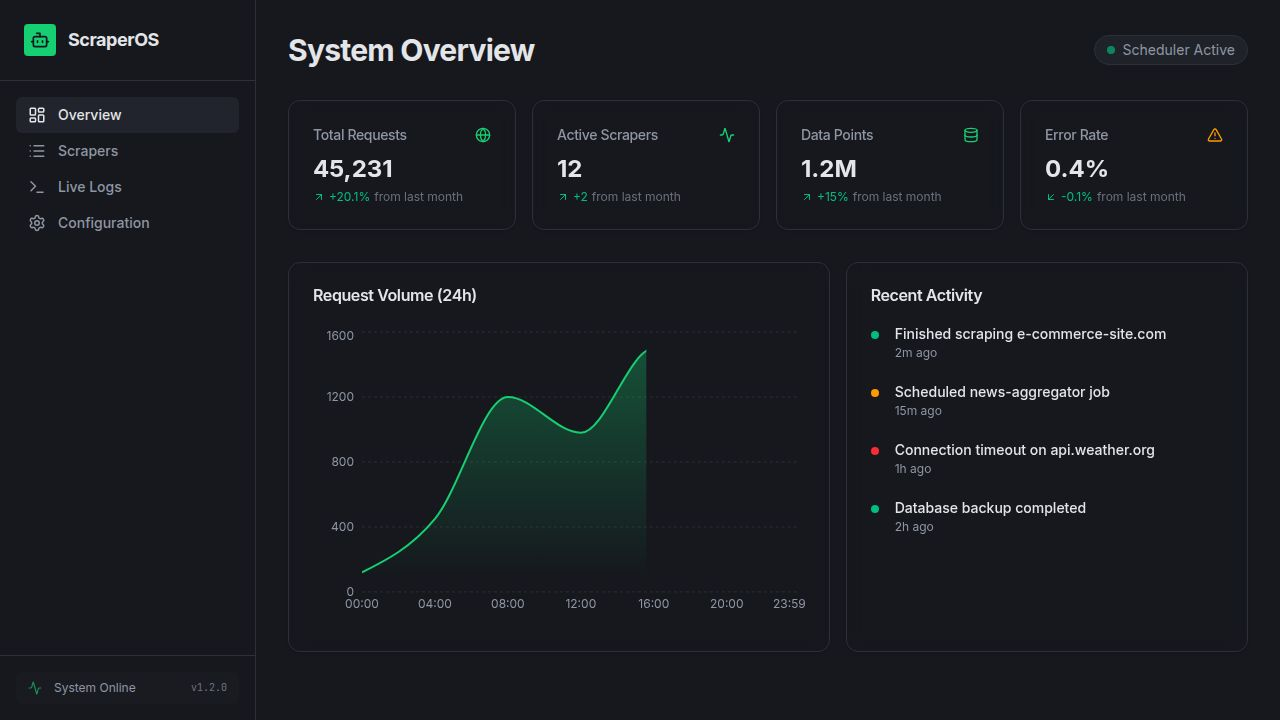
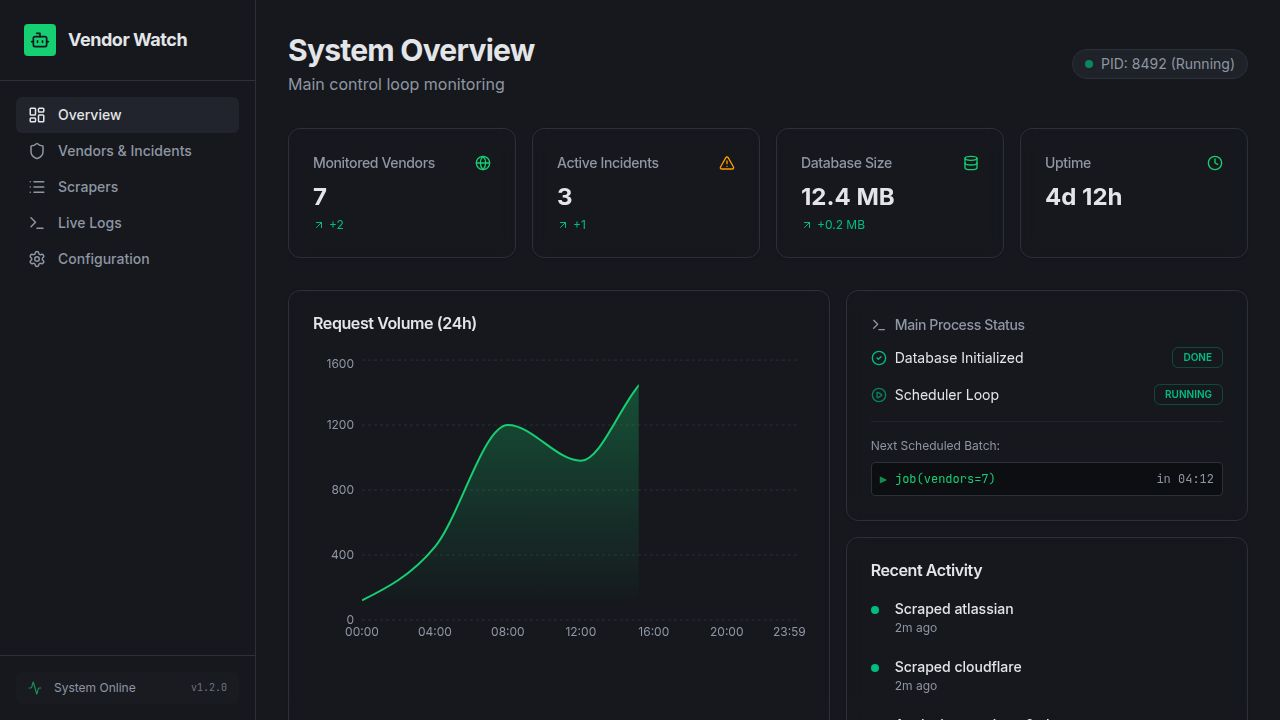
Update application name to Vendor Watch across all relevant files
Modify client/index.html, client/src/components/layout.tsx, and replit.md to rename the application from "ScraperOS" to "Vendor Watch", updating meta tags, sidebar display, and project documentation.

Replit-Commit-Author: Agent
Replit-Commit-Session-Id: 1bb68d70-c15f-4f9e-b7de-5420db1c5676
Replit-Commit-Checkpoint-Type: full_checkpoint
Replit-Commit-Event-Id: 40303295-f26b-4de8-b93f-3319f3ed82fe
Replit-Commit-Screenshot-Url: https://storage.googleapis.com/screenshot-production-us-central1/3daf340c-ca96-401c-a417-72b49712e625/1bb68d70-c15f-4f9e-b7de-5420db1c5676/zNHSsFZ
Replit-Helium-Checkpoint-Created: true

diff --git a/client/index.html b/client/index.html
@@ -4,14 +4,14 @@
     <meta charset="UTF-8" />
     <meta name="viewport" content="width=device-width, initial-scale=1.0, maximum-scale=1" />
 
-    <meta property="og:title" content="ScraperOS - Task Scheduler" />
-    <meta property="og:description" content="Dashboard for Python-based web scraping and scheduling tasks." />
+    <meta property="og:title" content="Vendor Watch - Status Monitoring" />
+    <meta property="og:description" content="Monitor third-party vendor status pages and track service incidents in real-time." />
     <meta property="og:type" content="website" />
     <meta property="og:image" content="https://replit.com/public/images/opengraph.png" />
     <meta name="twitter:card" content="summary_large_image" />
     <meta name="twitter:site" content="@replit" />
-    <meta name="twitter:title" content="ScraperOS - Task Scheduler" />
-    <meta name="twitter:description" content="Dashboard for Python-based web scraping and scheduling tasks." />
+    <meta name="twitter:title" content="Vendor Watch - Status Monitoring" />
+    <meta name="twitter:description" content="Monitor third-party vendor status pages and track service incidents in real-time." />
     <meta name="twitter:image" content="https://replit.com/public/images/opengraph.png" />
 
     <link rel="icon" type="image/png" href="/favicon.png" />

diff --git a/client/src/components/layout.tsx b/client/src/components/layout.tsx
@@ -29,7 +29,7 @@ export default function Layout({ children }: { children: React.ReactNode }) {
           <div className="h-8 w-8 rounded bg-primary flex items-center justify-center text-primary-foreground">
             <Bot size={20} />
           </div>
-          <span className="font-bold text-lg tracking-tight">ScraperOS</span>
+          <span className="font-bold text-lg tracking-tight">Vendor Watch</span>
         </div>
 
         <nav className="flex-1 p-4 space-y-1">

diff --git a/replit.md b/replit.md
@@ -1,8 +1,8 @@
-# ScraperOS - Vendor Status Monitoring Dashboard
+# Vendor Watch - Vendor Status Monitoring Dashboard
 
 ## Overview
 
-ScraperOS is a full-stack web application for monitoring third-party vendor status pages and detecting service incidents. It provides a dashboard for managing web scraping jobs, viewing vendor health status, tracking incidents, and monitoring system logs. The application is designed as a control center for Python-based scraping tasks that detect outages across major cloud providers and SaaS platforms.
+Vendor Watch is a full-stack web application for monitoring third-party vendor status pages and detecting service incidents. It provides a dashboard for managing web scraping jobs, viewing vendor health status, tracking incidents, and monitoring system logs. The application is designed as a control center for Python-based scraping tasks that detect outages across major cloud providers and SaaS platforms.
 
 ## User Preferences
 
